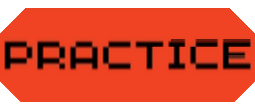
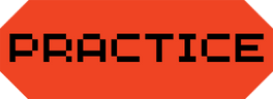
switching branches

diff --git a/bored-games/src/pages/HangManAnyone.js b/bored-games/src/pages/HangManAnyone.js
@@ -23,8 +23,9 @@ export default function HangManAnyone() {
     const styles = {
         container: {
             display: 'flex',
-            alignItem: 'center',
+            flexDirection: 'column',
             justifyContent: 'center',
+            alignItems: 'center',
             height: '100vh',
         },
         backgroundImage: {
@@ -36,9 +37,12 @@ export default function HangManAnyone() {
         },
         hostButton: {
         border: 'transparent',
+        width: '120%',
+        backgroundSize: '150%',    
         },
         joinButton: {
         border: 'transparent',
+        width: '120%',
         },
         practiceButton: {
         border: 'transparent',    
@@ -48,8 +52,8 @@ export default function HangManAnyone() {
             top: '49.5%',
             left: '50%',
             transform: 'translate(-400%, -50%) translate(300px,100px)',
-            width: '200px',
-            height: '720px',
+            width: '11%',
+            height: '74%',
         },
         hangmananyone: {
 

diff --git a/bored-games/src/components/Countdown.js b/bored-games/src/components/Countdown.js
@@ -1,0 +1,24 @@
+import React, { useState, useEffect } from "react";
+
+export default function Countdown() {
+    const [seconds, setSeconds] = useState(5)
+
+    useEffect(() => {
+        let timer;
+        if (seconds > 0) {
+            timer = setTimeout(() => setSeconds(seconds - 1), 1000);
+        }
+
+        return () => {
+            if (timer) {
+                clearTimeout(timer);
+            }
+        };
+    }, [seconds])
+
+    return (
+        <div style={{textAlign: 'center'}}>
+            <h1>Round begins in {seconds} {seconds === 1 ? 'second' : 'seconds'}...</h1>
+        </div>
+    )
+}

diff --git a/bored-games/src/components/Scoreboard.js b/bored-games/src/components/Scoreboard.js
@@ -1,0 +1,9 @@
+import React from 'react';
+import API from '../utils/api'
+import Timer from './Timer'
+
+export default function Scoreboard({room, username, players, endGame, nextRound}) {
+    const hangman = [
+        
+    ]
+}
